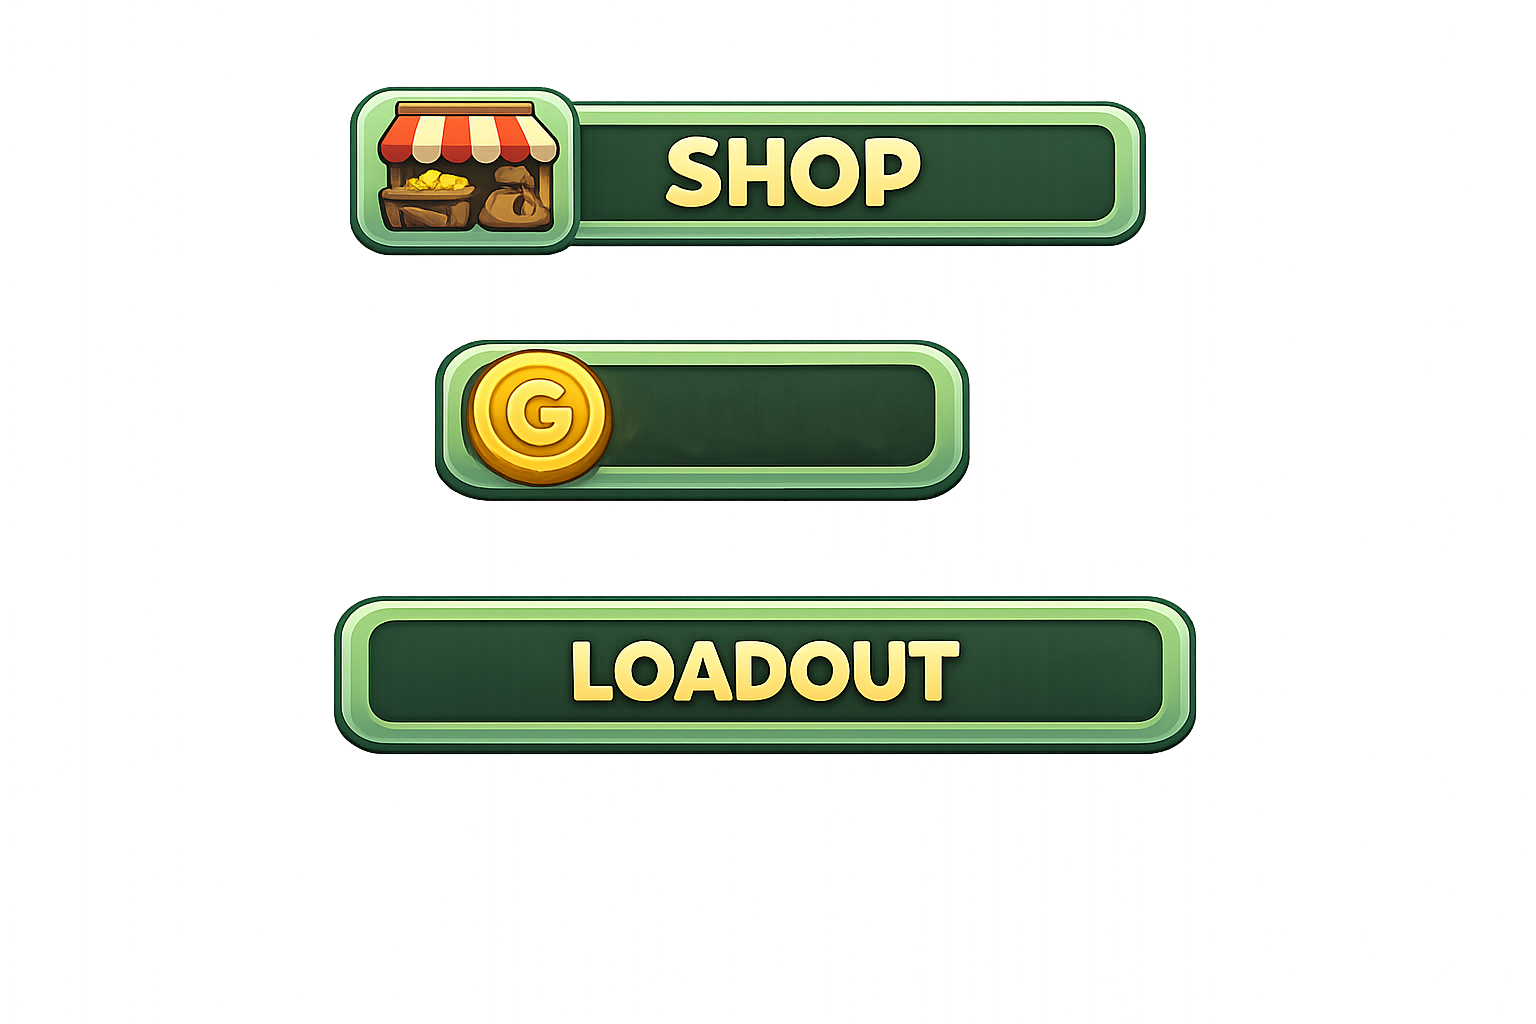
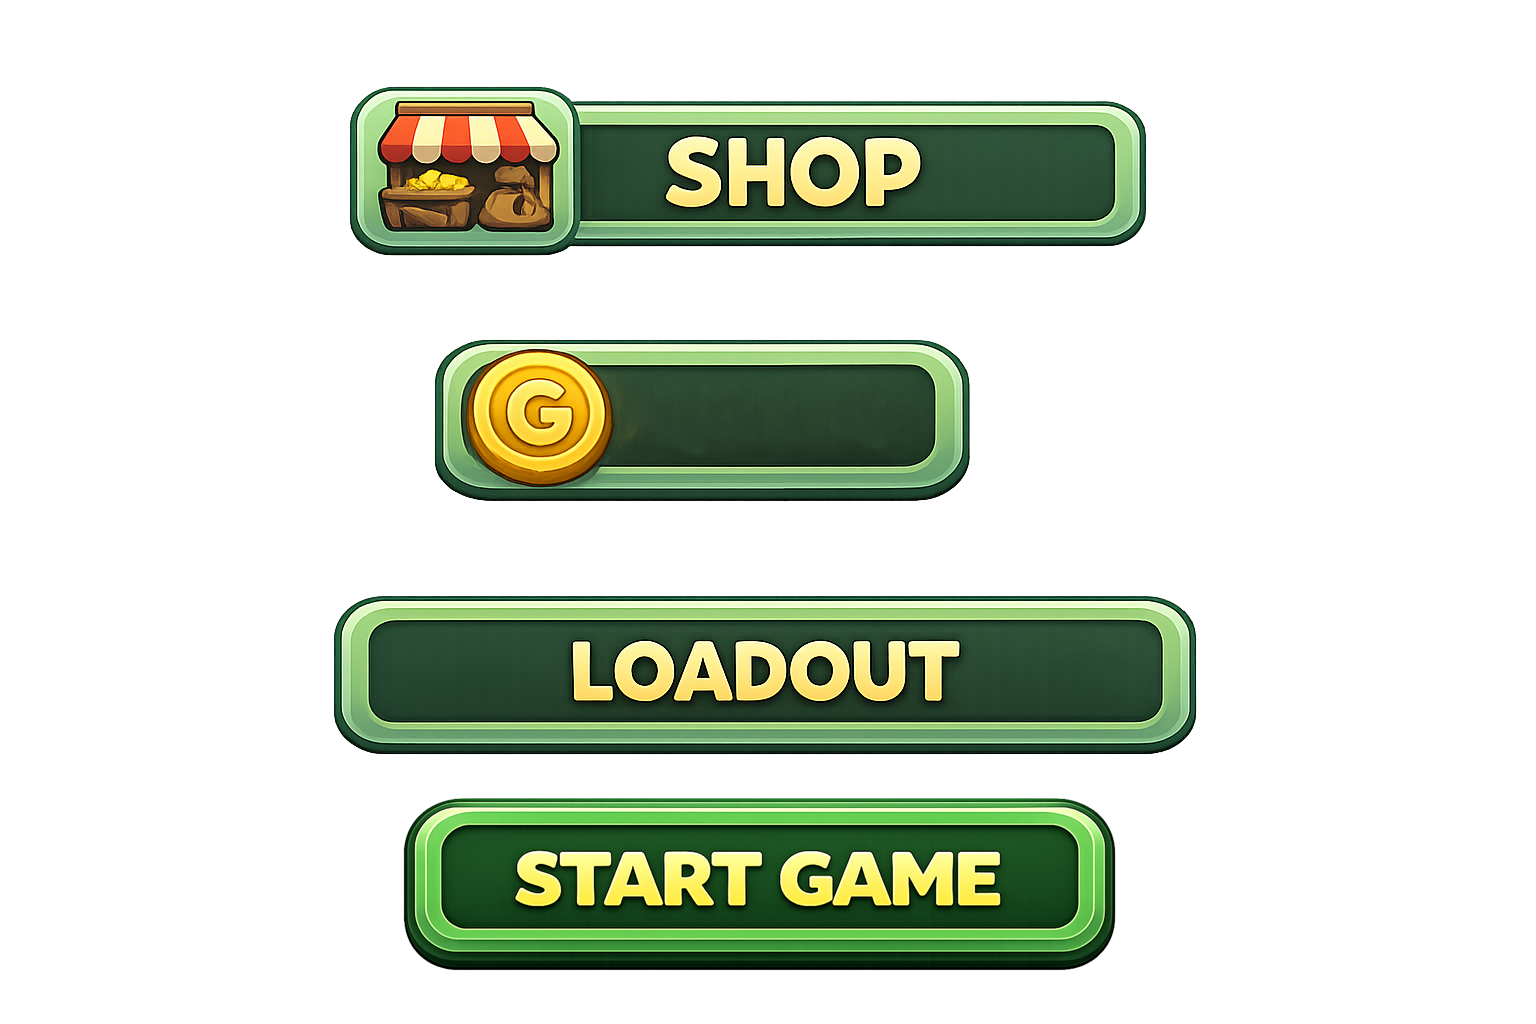
ft/start game ui button

Changed region(s): [[0.25, 0.7812, 0.75, 0.9688]]

diff --git a/src/ui.tsx b/src/ui.tsx
@@ -186,6 +186,11 @@ const LOBBY_HUD_SHOP_SOURCE_HEIGHT = 178
 const LOBBY_HUD_SHOP_WIDTH = Math.round(LOBBY_HUD_SHOP_SOURCE_WIDTH * 0.5)
 const LOBBY_HUD_SHOP_HEIGHT = Math.round(LOBBY_HUD_SHOP_SOURCE_HEIGHT * 0.5)
 const LOBBY_HUD_SHOP_UVS = createAtlasUvs(346, 80, LOBBY_HUD_SHOP_SOURCE_WIDTH, LOBBY_HUD_SHOP_SOURCE_HEIGHT)
+const START_GAME_BUTTON_SOURCE_WIDTH = 719
+const START_GAME_BUTTON_SOURCE_HEIGHT = 190
+const START_GAME_BUTTON_WIDTH = Math.round(START_GAME_BUTTON_SOURCE_WIDTH * 0.5)
+const START_GAME_BUTTON_HEIGHT = Math.round(START_GAME_BUTTON_SOURCE_HEIGHT * 0.5)
+const START_GAME_BUTTON_UVS = createAtlasUvs(397, 780, START_GAME_BUTTON_SOURCE_WIDTH, START_GAME_BUTTON_SOURCE_HEIGHT)
 const LOBBY_HUD_GOLD_TOP = Math.round((1080 - (LOBBY_HUD_GOLD_HEIGHT + LOBBY_HUD_ITEM_MARGIN_BOTTOM + LOBBY_HUD_SHOP_HEIGHT)) * 0.5)
 
 type TeamHudPlayerEntry = {
@@ -553,7 +558,6 @@ export const uiMenu = () => {
   const isInZone = !!localAddress && !!lobbyState?.players.find((p) => p.address === localAddress)
   const isInsideLobbyTrigger = isLocalPlayerInsideLobbyTrigger()
   const isStartGameButtonLocked = startCountdownSeconds > 0
-  const startGameButtonLabel = isStartGameButtonLocked ? `STARTING IN ${startCountdownSeconds}` : 'START GAME'
   const showStartGameButton =
     isInZone &&
     isInsideLobbyTrigger &&
@@ -1371,14 +1375,10 @@ const teamPanelNameWidth = isMobileRuntime ? 100 : 120
         >
           <UiEntity
             uiTransform={{
-              width: 320,
-              height: 64,
+              width: START_GAME_BUTTON_WIDTH,
+              height: START_GAME_BUTTON_HEIGHT,
               alignItems: 'center',
-              justifyContent: 'center',
-              borderRadius: 8
-            }}
-            uiBackground={{
-              color: isStartGameButtonLocked ? Color4.create(0.22, 0.46, 0.28, 0.92) : Color4.create(0.1, 0.7, 0.25, 0.92)
+              justifyContent: 'center'
             }}
             onMouseDown={
               isStartGameButtonLocked
@@ -1391,12 +1391,12 @@ const teamPanelNameWidth = isMobileRuntime ? 100 : 120
             onMouseUp={endUiPointerCapture}
           >
             <UiEntity
-              uiTransform={{ width: '100%', height: '100%', alignItems: 'center', justifyContent: 'center' }}
-              uiText={{
-                value: startGameButtonLabel,
-                fontSize: 24,
-                color: Color4.White(),
-                textAlign: 'middle-center'
+              uiTransform={{ width: '100%', height: '100%' }}
+              uiBackground={{
+                textureMode: 'stretch',
+                texture: { src: HUD_LOBBY_SHEET_SRC, filterMode: 'tri-linear', wrapMode: 'clamp' },
+                uvs: START_GAME_BUTTON_UVS,
+                color: Color4.create(1, 1, 1, isStartGameButtonLocked ? 0.72 : 1)
               }}
             />
           </UiEntity>